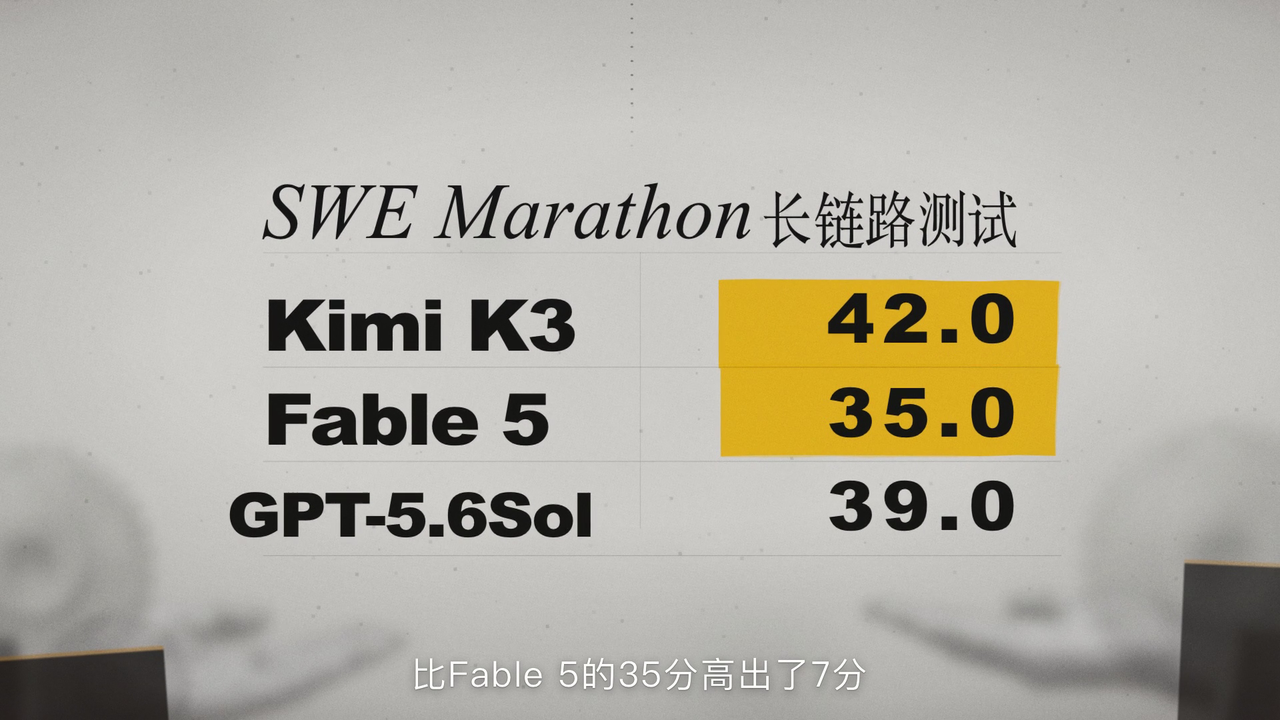
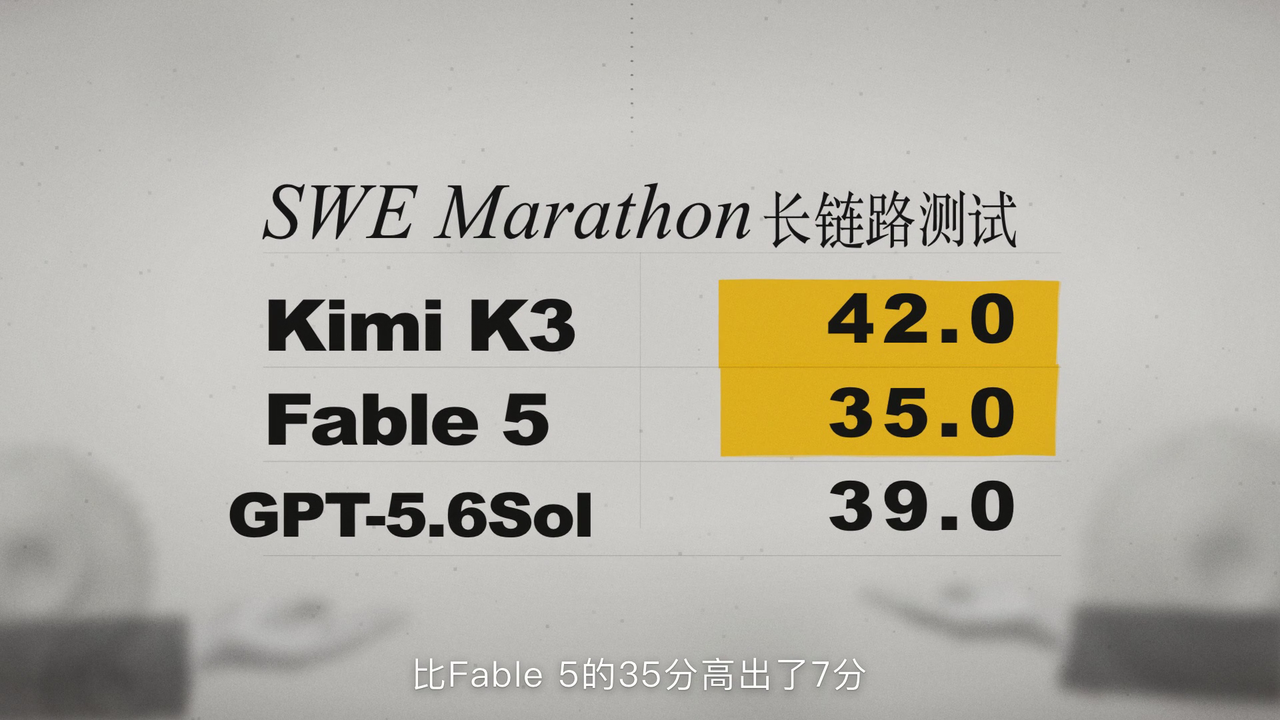
Run the sleeves off frame and drop the floating black strips
- the generated hands ended inside their own canvas, leaving a hard cut
  through the forearm; the outer sleeve strip is now stretched off-canvas
  (tools/extend-sleeves.py) so the arms leave through the frame edges
- remove the invented 'torn photo edge' bars: they read as floating black
  rectangles rather than collage edges
- refreshed preview

Changed region(s): [[0.7188, 0.7639, 1.0, 1.0], [0.0, 0.8556, 0.2812, 1.0], [0.2188, 0.825, 0.25, 0.8556]]

diff --git a/src/components/IntroCollage.tsx b/src/components/IntroCollage.tsx
@@ -282,9 +282,9 @@ export const IntroProps: React.FC = () => {
         gearRotate={-6 + spin}
         gearSlide={20}
         gearFall={-10}
-        handLeft={-86}
+        handLeft={-593}
         handTop={792}
-        handWidth={668}
+        handWidth={1175}
         handRotate={-2}
         handFromY={150}
         hand="left"
@@ -298,7 +298,7 @@ export const IntroProps: React.FC = () => {
         gearFall={-245}
         handLeft={1016}
         handTop={716}
-        handWidth={700}
+        handWidth={1234}
         handRotate={1.5}
         handFromX={520}
         hand="right"
@@ -340,37 +340,3 @@ export const DottedChain: React.FC<{x: number; from: number; to: number}> = ({
   }
   return <>{dots}</>;
 };
-
-/** Torn dark photo edges that hold the composition in at the corners. */
-export const EdgeBands: React.FC = () => (
-  <>
-    <div
-      style={{
-        position: 'absolute',
-        left: -80,
-        top: 946,
-        width: 360,
-        height: 86,
-        background: '#191817',
-        transform: 'rotate(-4deg)',
-        filter: 'blur(0.4px)',
-        boxShadow: '0 -5px 0 rgba(196, 126, 30, 0.55)',
-        opacity: 0.9,
-      }}
-    />
-    <div
-      style={{
-        position: 'absolute',
-        left: 1748,
-        top: 720,
-        width: 260,
-        height: 240,
-        background: '#171615',
-        transform: 'rotate(2.5deg)',
-        filter: 'blur(0.5px)',
-        boxShadow: '0 -5px 0 rgba(200, 128, 30, 0.5)',
-        opacity: 0.85,
-      }}
-    />
-  </>
-);

diff --git a/src/components/Foreground.tsx b/src/components/Foreground.tsx
@@ -71,35 +71,6 @@ export const FloatingDebris: React.FC = () => {
         />
       ))}
 
-      {/* torn photo edges, bottom corners */}
-      <div
-        style={{
-          position: 'absolute',
-          left: -90,
-          top: 986,
-          width: 340,
-          height: 120,
-          background: '#191817',
-          transform: `rotate(-4deg) translateY(${drift * 0.4}px)`,
-          boxShadow: '0 -6px 0 rgba(196, 126, 30, 0.6)',
-          filter: 'blur(1px)',
-          opacity: 0.82,
-        }}
-      />
-      <div
-        style={{
-          position: 'absolute',
-          left: 1770,
-          top: 850,
-          width: 240,
-          height: 300,
-          background: '#171615',
-          transform: 'rotate(2.5deg)',
-          boxShadow: '0 -6px 0 rgba(200, 128, 30, 0.5)',
-          filter: 'blur(1.2px)',
-          opacity: 0.7,
-        }}
-      />
     </div>
   );
 };

diff --git a/tools/extend-sleeves.py b/tools/extend-sleeves.py
@@ -1,0 +1,35 @@
+"""Extend the sleeve side of each hand cut-out off-canvas.
+
+The generated hands end inside their own frame, which leaves a hard rectangular
+cut where the sleeve stops — visible as a floating black block. Stretching the
+outer sleeve strip outward makes the arm run off frame like the reference.
+
+Run with: python3 tools/extend-sleeves.py
+"""
+from PIL import Image, ImageFilter
+
+EXT = 900
+STRIP = 90
+
+
+def extend(path: str, side: str) -> None:
+    im = Image.open(path).convert('RGBA')
+    w, h = im.size
+    if side == 'left':
+        strip = im.crop((0, 0, STRIP, h))
+        stretch = strip.resize((EXT, h), Image.BILINEAR).filter(ImageFilter.GaussianBlur(6))
+        out = Image.new('RGBA', (w + EXT, h), (0, 0, 0, 0))
+        out.paste(stretch, (0, 0))
+        out.alpha_composite(im, (EXT, 0))
+    else:
+        strip = im.crop((w - STRIP, 0, w, h))
+        stretch = strip.resize((EXT, h), Image.BILINEAR).filter(ImageFilter.GaussianBlur(6))
+        out = Image.new('RGBA', (w + EXT, h), (0, 0, 0, 0))
+        out.alpha_composite(im, (0, 0))
+        out.paste(stretch, (w, 0))
+    out.save(path)
+    print(path, im.size, '->', out.size)
+
+
+extend('public/assets/hand-left.png', 'left')
+extend('public/assets/hand-right.png', 'right')
